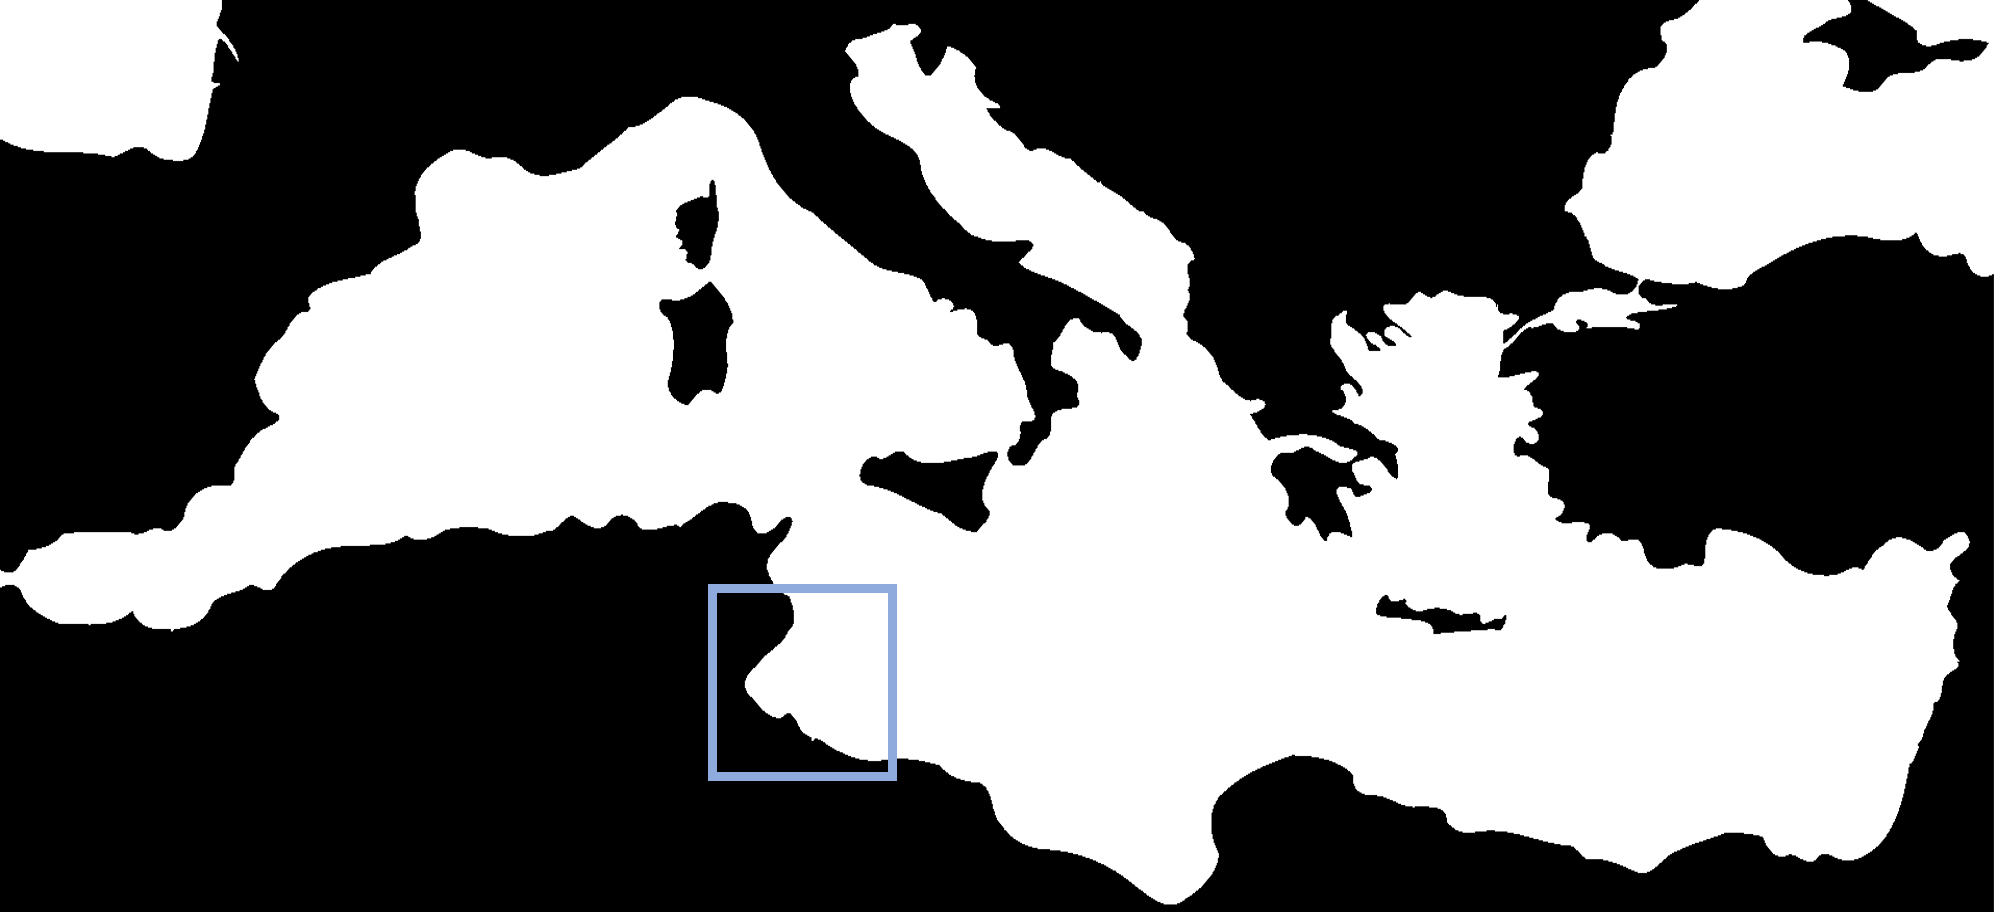
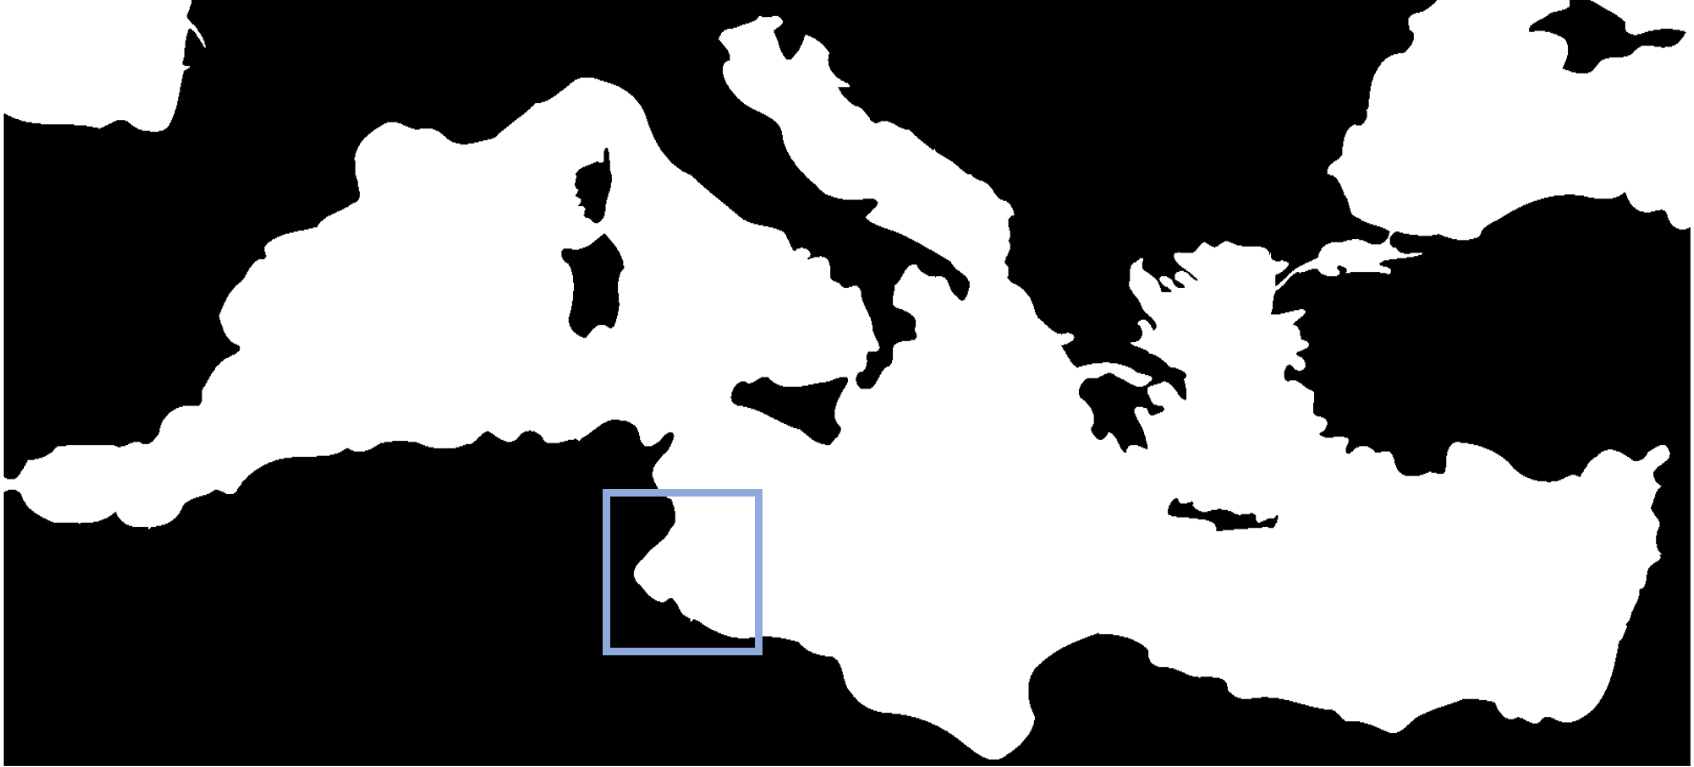
medit

diff --git a/gabes.html b/gabes.html
@@ -62,7 +62,7 @@
 
 <font size="3em"><div align="justify">
 
-	<a href="#" class="image left" style="text-align:left" style="margin: 0 2em 0 0" ><img src="images/medit.png" style="width:100%" align="left" onContextMenu="return false" alt="" copyright="c">
+	<a href="#" class="image left" style="text-align:left" style="margin: 0 2em 0 0" ><img src="images/medit.jpg" style="width:100%" align="left" onContextMenu="return false" alt="" copyright="c">
 		<div class="caption" style="text-align:center;float:center;font-size:0.8em;color:black">Localisation du golfe de Gabès en Méditerrannée<br><br></div></a>
 
 Le golfe de Gabès a longtemps été un mystère pour la communauté scientifique :<br><br>
